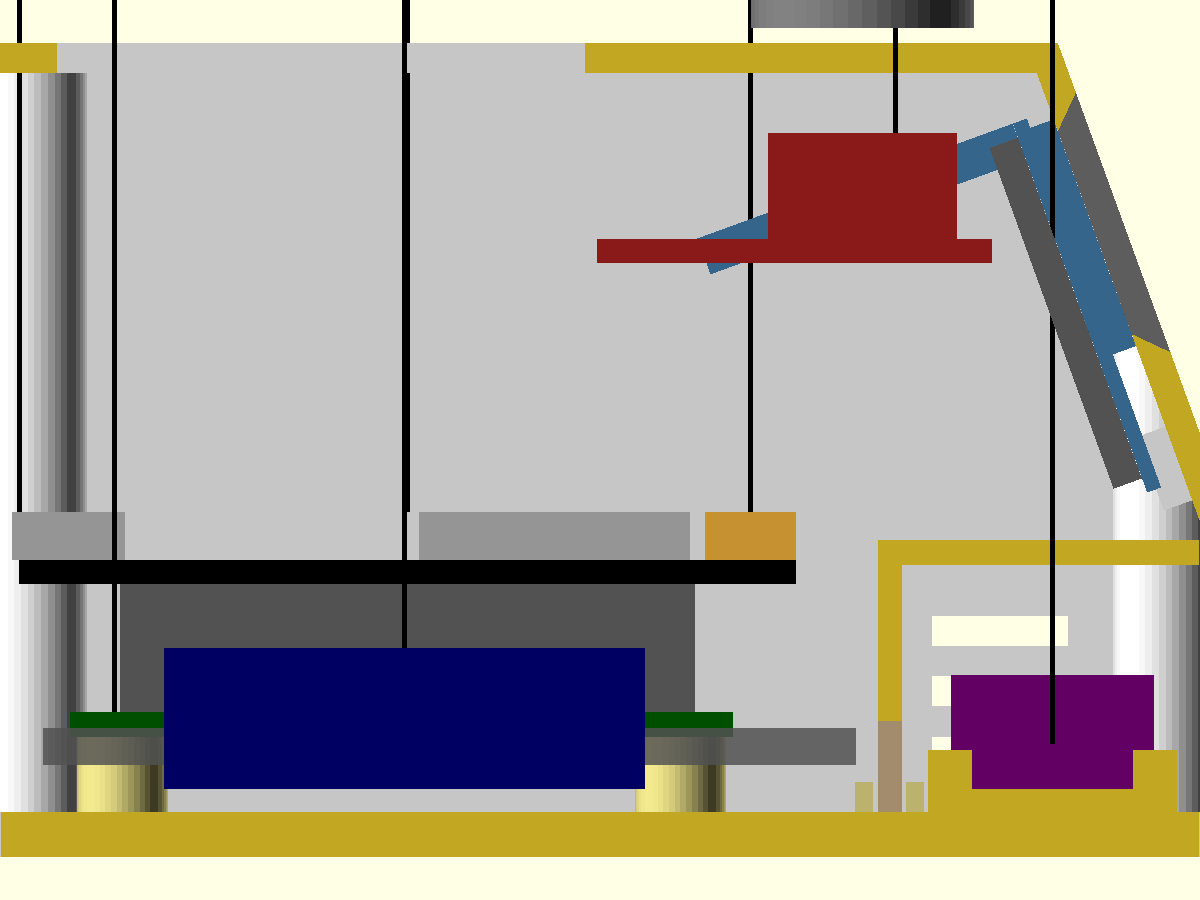
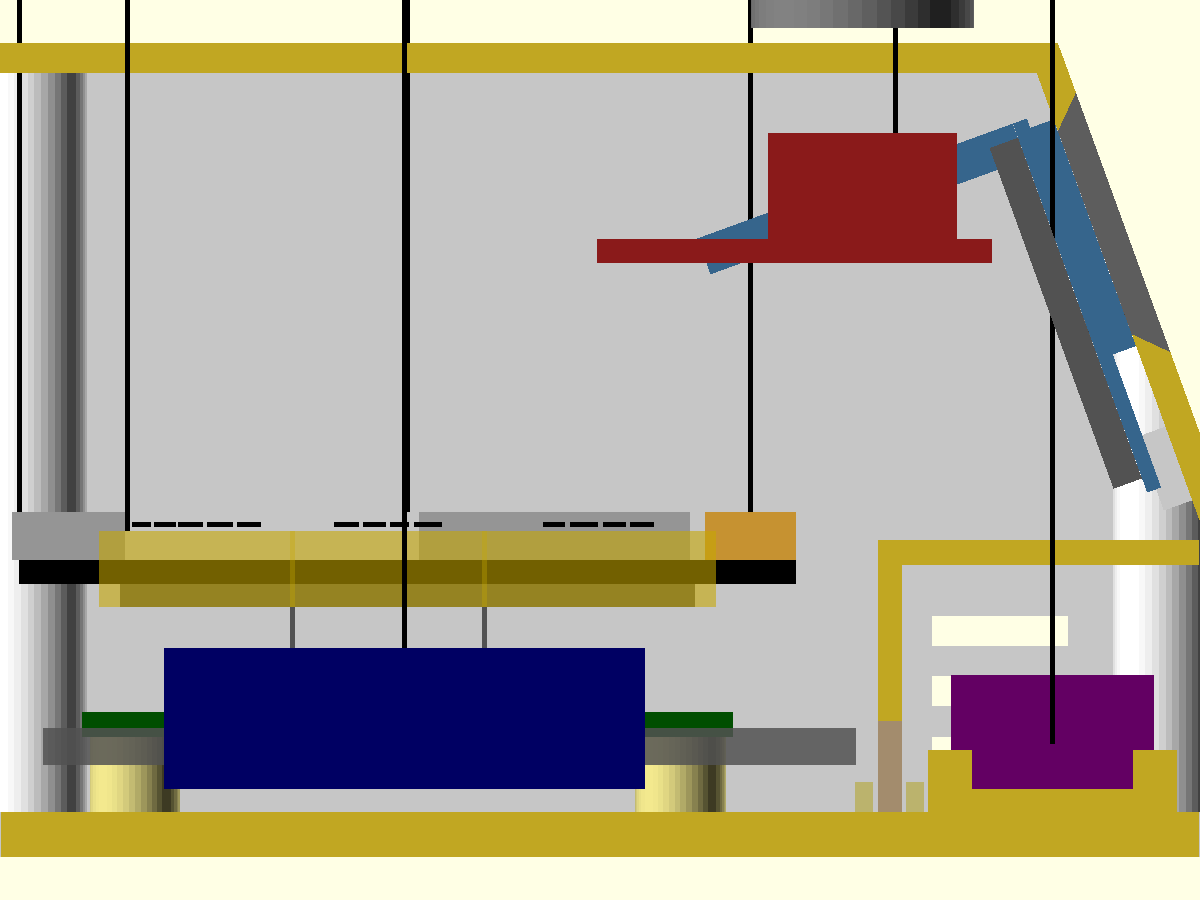
Enclosure v2: JST-XH sockets on the carrier's hole grid, with clash check
whole fits all five sockets; cut only three (no room for BME280 and RTC).

Changed region(s): [[0.0308, 0.0, 0.6167, 0.8089], [0.0617, 0.84, 0.1542, 0.9022]]

diff --git a/enclosure/README.md b/enclosure/README.md
@@ -40,9 +40,19 @@ enclosure/export.sh enclosure_v2.scad carrier=cut        # or carrier=whole
 enclosure/cardboard.py 2 enclosure_v2.scad carrier=cut   # -> cardboard-enclosure_v2-cut.pdf
 ```
 
-Open question for the soldering layout (either way): where the JST
-connectors go. `cut` has only ~3 spare hole columns beside the ESP32's
-pins; `whole` has ~5 columns free at the left end. The DS3231's pins (both
+**JST-XH sockets** are modelled on the board's hole grid (white, with the
+mated plug + cable bend as a see-through gold block, labelled on top); the
+clash check covers them against the ESP32, its headers, the DS3231 and the
+case, and the model errors if one hangs off the board:
+
+- `whole`: all five fit. BME280, SCD41, OLED along the front edge (row 0,
+  under nothing; the plugs clear the ESP32's edge by only ~0.5 mm in plan),
+  RTC and KNOB at the left end (col 0), next to the ESP32's antenna end.
+- `cut`: only three fit (KNOB, OLED, SCD41, in the one free column left of
+  the ESP32). **No room for BME280 and RTC**: the ESP32 covers the rest of
+  the board, and a plug is too tall to go under it.
+
+The hole grid is ASSUMED centred on the board. The DS3231's pins (both
 ends) are modelled with the cable soldered on, not a Dupont plug.
 
 ![cut](renders/enclosure_v2-cut-inside.png) ![whole](renders/enclosure_v2-whole-inside.png)
